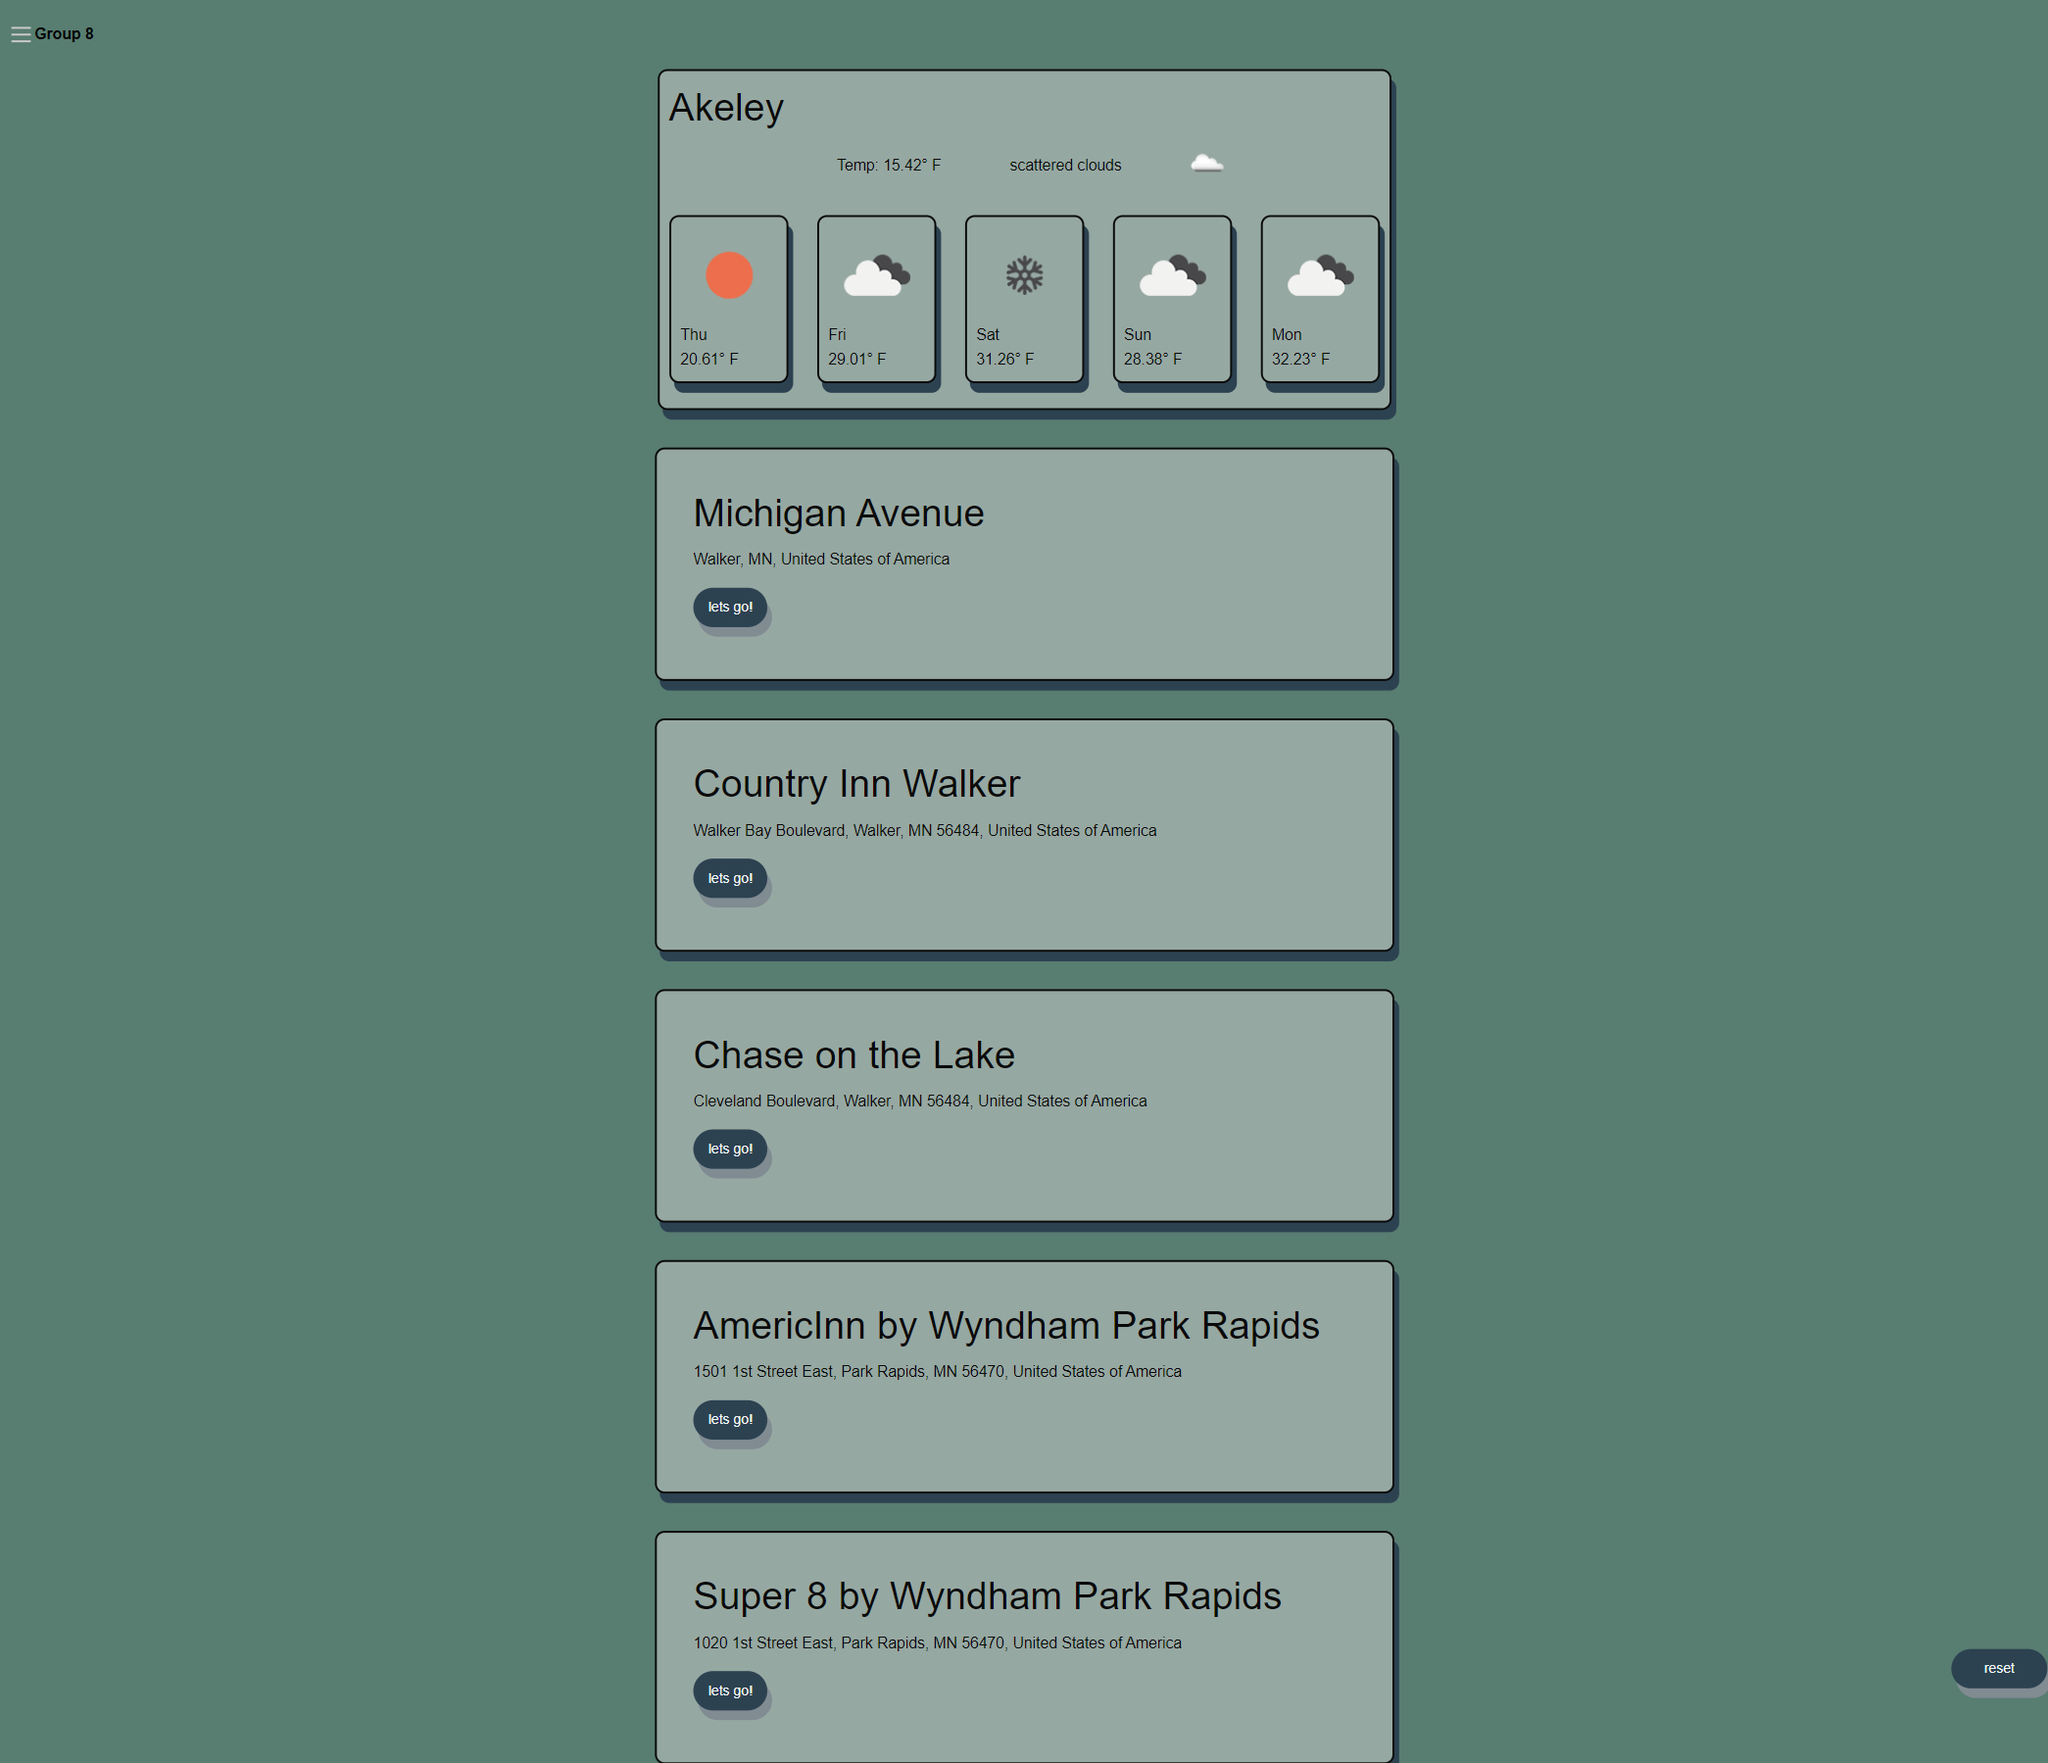
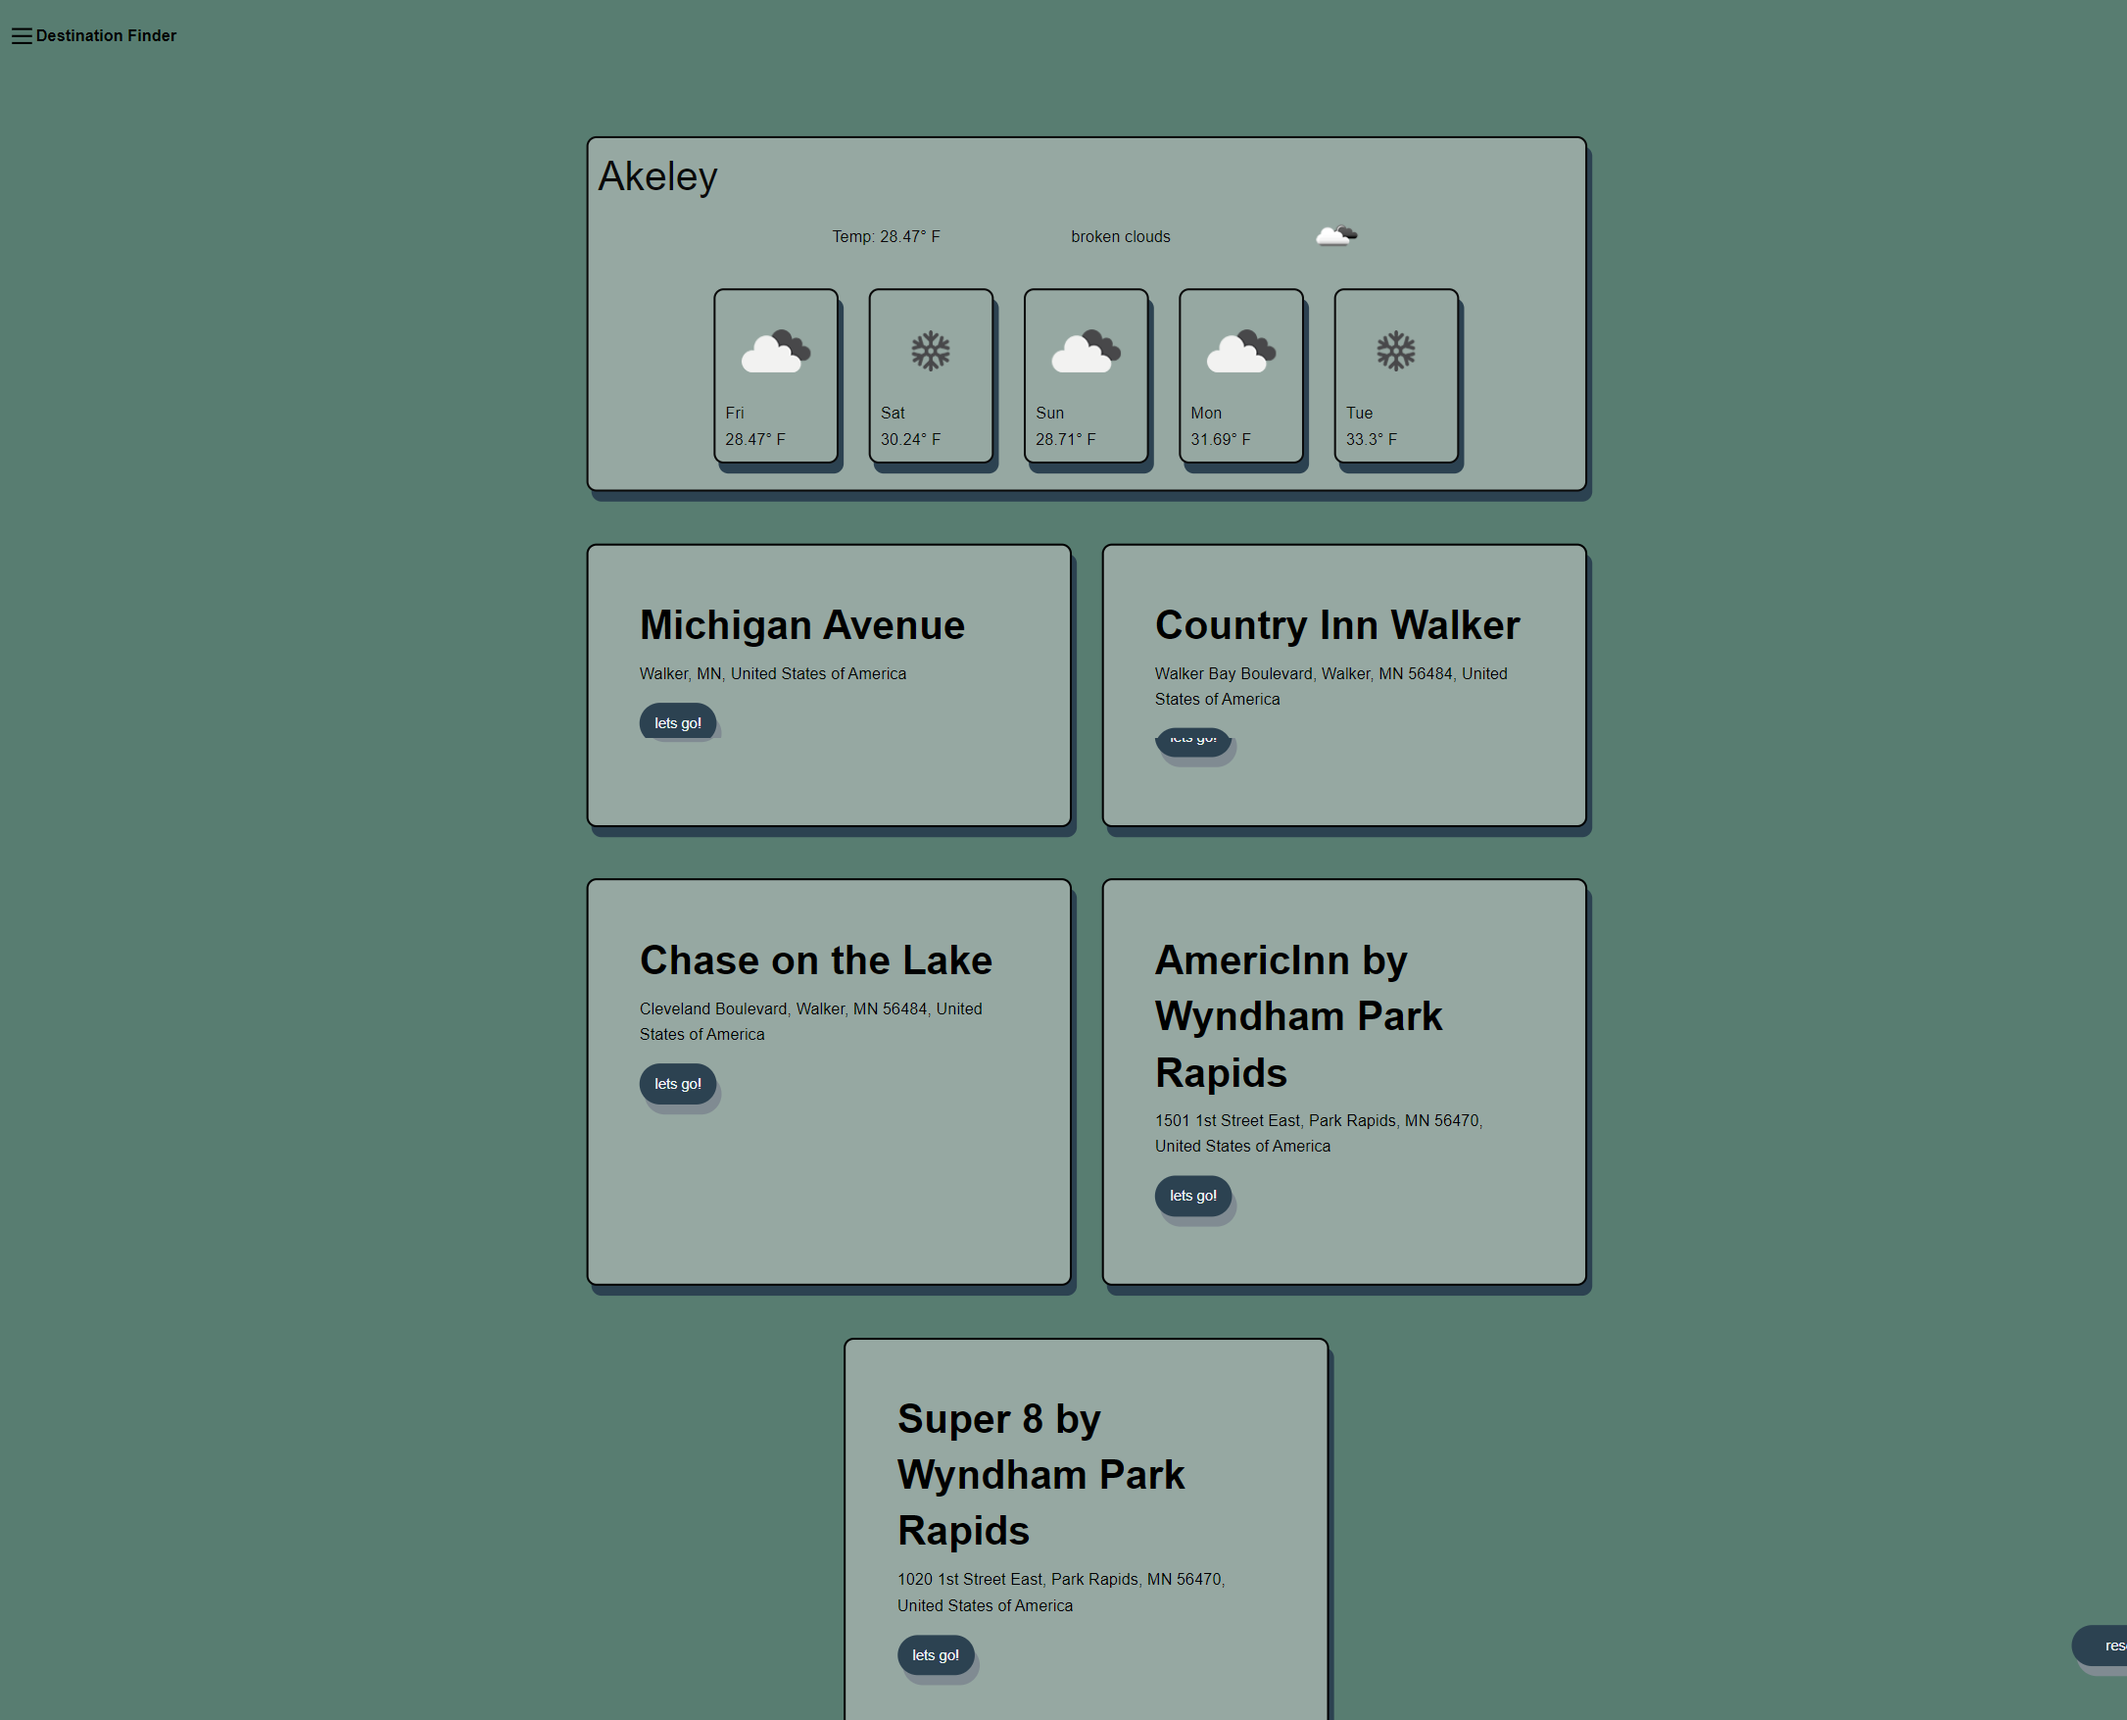
current

Changed region(s): [[0.2488, 0.0308, 0.7464, 1.0], [0.933, 0.9231, 1.0, 0.9846], [0.0, 0.0, 0.0622, 0.0308]]

diff --git a/assets/css/app.css b/assets/css/app.css
@@ -20,8 +20,9 @@ a:hover {
 }
 /*Tag for initial search bar.*/
 #initial-search {
-  margin: 10%;
   margin-top: 50%;
+  margin-left: auto;
+  margin-right: auto;
 }
 #submit-but {
   box-shadow: none;
@@ -44,6 +45,7 @@ a:hover {
     padding: 10px;
   margin-left: auto;
   margin-right: auto;
+  margin-top: 4rem;
     justify-content: center;
     align-items: center;
     max-width: 1200px;
@@ -52,89 +54,103 @@ a:hover {
     box-shadow: 5px 10px var(--buttonInactive);
     background-color: var(--card);
 
-    width: fit-content;
+
 }
 #projected-container {
-margin: 10px;
+margin-left: auto;
+margin-right: auto;
+justify-content: center;
 }
 #projected-card{
-
-    
-    padding: 10px;
-
-    margin-top: 10px;
-    justify-items: center;
+  
+  
+  padding: 10px;
+  justify-content: center;
+  margin-top: 10px;
+  justify-items: center;
     border: solid 2px;
     border-radius: 10px;
     box-shadow: 5px 10px var(--buttonInactive);
     background-color: var(--card);
     min-width: fit-content;
     max-width: 125px;
+    
+  }
+  /* #projected-container {
+    display: inline-flex;
+  } */
+  #point-of-interest {
+    padding: 5%;
+    margin-left: auto;
+    margin-right: auto;
+    margin-top: 5%;
+    
+    color: var(--headerText);
+    border: solid 2px;
+    border-radius: 10px;
+    box-shadow: 5px 10px var(--buttonInactive);
+    background-color: var(--card);
+    /* background: url("https://cdn.vox-cdn.com/thumbor/fX9onefrTRueVVozZ1s7XlIQpps=/0x0:220x122/1400x1050/filters:focal(93x44:127x78):format(gif)/cdn.vox-cdn.com/uploads/chorus_image/image/71396949/50BCC55B_A4ED_48A3_946F_F07D8093B244.0.gif") no-repeat; */
+    
+  }
+  #point-name {
+    font-weight: 600;
+  }
   
-}
-/* #projected-container {
-  display: inline-flex;
-} */
-#point-of-interest {
-  padding: 5%;
-  margin-left: auto;
-  margin-right: auto;
-  margin-top: 5%;
-  max-width: 770px;
-  color: var(--searchBar);
-  border: solid 2px;
-  border-radius: 10px;
-  box-shadow: 5px 10px var(--buttonInactive);
-  background-color: var(--card);
-  background: url("https://cdn.vox-cdn.com/thumbor/fX9onefrTRueVVozZ1s7XlIQpps=/0x0:220x122/1400x1050/filters:focal(93x44:127x78):format(gif)/cdn.vox-cdn.com/uploads/chorus_image/image/71396949/50BCC55B_A4ED_48A3_946F_F07D8093B244.0.gif") no-repeat;
-
-}
-#point-name {
- font-weight: 600;
-}
-
-#info-container {
-  padding: 5%;
-  margin-left: 10%;
-  margin-right: 10%;
-  margin-top: 5%;
-  margin-bottom: 5%;
-  justify-content: center;
-  border: solid 2px;
-  border-radius: 10px;
-  box-shadow: 5px 10px var(--buttonInactive);
-}
-#description{
-  padding: 5%;
-  margin-left: 10%;
-  margin-right: 10%;
-  margin-top: 5%;
-  margin-bottom: 5%;
-  justify-content: center;
-  border: solid 2px;
-  border-radius: 10px;
-  box-shadow: 5px 10px var(--buttonInactive);
-}
-/*Tag for reloading the page*/
-#resetBtn {
-  position: absolute;
+  #info-container {
+    padding: 5%;
+    margin-left: 10%;
+    margin-right: 10%;
+    margin-top: 5%;
+    margin-bottom: 5%;
+    justify-content: center;
+    border: solid 2px;
+    border-radius: 10px;
+    box-shadow: 5px 10px var(--buttonInactive);
+  }
+  #description{
+    padding: 5%;
+    margin-left: 10%;
+    margin-right: 10%;
+    margin-top: 5%;
+    margin-bottom: 5%;
+    justify-content: center;
+    border: solid 2px;
+    border-radius: 10px;
+    box-shadow: 5px 10px var(--buttonInactive);
+  }
+  /*Tag for reloading the page*/
+  #resetBtn {
+    position: absolute;
     top: 100px;
     right: 1px;
     width: 100px;
     height: 100px;
     transition: all 2s ease-in-out;
     z-index: 1;
-}
-body {
-  background-color: var(--background);
+  }
+  body {
+    background-color: var(--background);
   min-width: 350px;
-
+  min-height: auto;
   margin: auto;
 }
 main {
   max-width: 1000px;
   margin: auto;
 }
+/* footer {
+  height: 50px;
+  position: fixed;
+  bottom: 0px;
+  left: 0px;
+  line-height: 50px;
+  color: var(--searchBar);
+  text-align: center;
+  width: 100%;
+  background-color: var(--buttonInactive)
+
+} */
 #current-icon {
   width: 50px;
 height: 50px;

diff --git a/assets/js/app.js b/assets/js/app.js
@@ -19,11 +19,13 @@ $(function () {
 });
 var resultsEl = document.querySelector('#results')
 var weatherCard = document.createElement('div');
+var pointOfInterestContainer = document.createElement('div');
+pointOfInterestContainer1 = document.createElement('div');
 
 //this portion is where we find our lat and long.
 var getCityName = function (cityName) {
   var locationURL = "https://api.openweathermap.org/geo/1.0/direct?q=" + cityName + "&limit=5&appid=5eadcacf0e30dbacf32a851c3ca447bb";
-
+  
   //here boy, this guy retrievers the lat and long of the city we input.
   fetch(locationURL).then(function (response) {
     if (response.ok) {
@@ -33,7 +35,7 @@ var getCityName = function (cityName) {
         var citLon = data[0].lon;
         var city = data[0].name;
         var cityEl = document.createElement('h2');
-
+        
         //adds weather card to the page.
         resultsEl.appendChild(weatherCard);
         weatherCard.setAttribute('id', 'weather-card')
@@ -41,6 +43,10 @@ var getCityName = function (cityName) {
         //cityEl adds an h2 above the weather information with the chosen city name.
         weatherCard.appendChild(cityEl);
         cityEl.textContent = city;
+        resultsEl.appendChild(pointOfInterestContainer);
+        pointOfInterestContainer.setAttribute('class', 'grid-container-fluid');
+        pointOfInterestContainer.appendChild(pointOfInterestContainer1);
+        pointOfInterestContainer1.setAttribute('class', 'grid-x grid-margin-x');
 
         getWeather(citLat, citLon);
         getPointsOfInterest(citLat, citLon);
@@ -63,7 +69,7 @@ function getWeather(lat, lon) {
 
   
 function getPointsOfInterest(lat, lon) {
-  var pointOfInterestURL = "https://api.geoapify.com/v2/places?categories=accommodation.hotel&bias=proximity:" + lon + ',' + lat + '&limit=5&apiKey=b9d60eea968f40d3ab5868cce8cdd4d8'
+  var pointOfInterestURL = "https://api.geoapify.com/v2/places?categories=accommodation.hotel&bias=proximity:" + lon + ',' + lat + '&limit=6&apiKey=b9d60eea968f40d3ab5868cce8cdd4d8'
 
     fetch(pointOfInterestURL).then(function (response) {
       if (response.ok) {
@@ -127,7 +133,7 @@ function displayWeather(data) {
   for (i=0; i<5; i++) {
     
     var unix = data.daily[i].dt * 1000;
-        var projectedDate = dayjs(unix).format("ddd");
+    var projectedDate = dayjs(unix).format("ddd");
     
     var projectedIcon = data.daily[i].weather[0].icon;
     var projectedIconUrl = 'http://openweathermap.org/img/wn/' + projectedIcon + "@2x.png"
@@ -177,8 +183,9 @@ for (i=0; i<10; i++) {
   // var website = data.features[i].properties.datasource.raw.website;
   var mapBtn = document.createElement('button');
 // console.log(webSearch);
-  resultsEl.appendChild(pointOfInterest);
+  pointOfInterestContainer1.appendChild(pointOfInterest);
     pointOfInterest.setAttribute('id', 'point-of-interest');
+    pointOfInterest.setAttribute('class', 'cell small-12 large-6');
     pointOfInterest.appendChild(pointNameEl);
       pointNameEl.setAttribute('id', 'point-name');
       pointNameEl.textContent = pointName;

diff --git a/index.html b/index.html
@@ -4,7 +4,7 @@
     <meta charset="utf-8" />
     <meta http-equiv="x-ua-compatible" content="ie=edge">
     <meta name="viewport" content="width=device-width, initial-scale=1.0" />
-    <title>Group 8</title>
+    <title>Destination Finder</title>
     <link rel="stylesheet" href="assets/css/foundation.css">
     <link rel="stylesheet" href="assets/css/app.css">
     <script defer src="assets/js/vendor/jquery.js"></script>
@@ -17,7 +17,7 @@
   <header>
     <div  class="title-bar topbar-center-logo-mobile" data-responsive-toggle="responsive-menu" data-hide-for="none">
       <button class="menu-icon" type="button" data-toggle="responsive-menu"></button>
-      <div class="title-bar-title"><strong>Group 8</strong></div>
+      <div class="title-bar-title"><strong>Destination Finder</strong></div>
       <div class="title-bar-left">
         
           <input class="input-field search-field" type="search" placeholder="Planning a trip?" id=""/>
@@ -50,6 +50,10 @@
     </section>
           
   </main>
+  <!-- <footer>
+    <h3>Footer</h3>
+  </footer> -->
+  </body>
 
     
     
